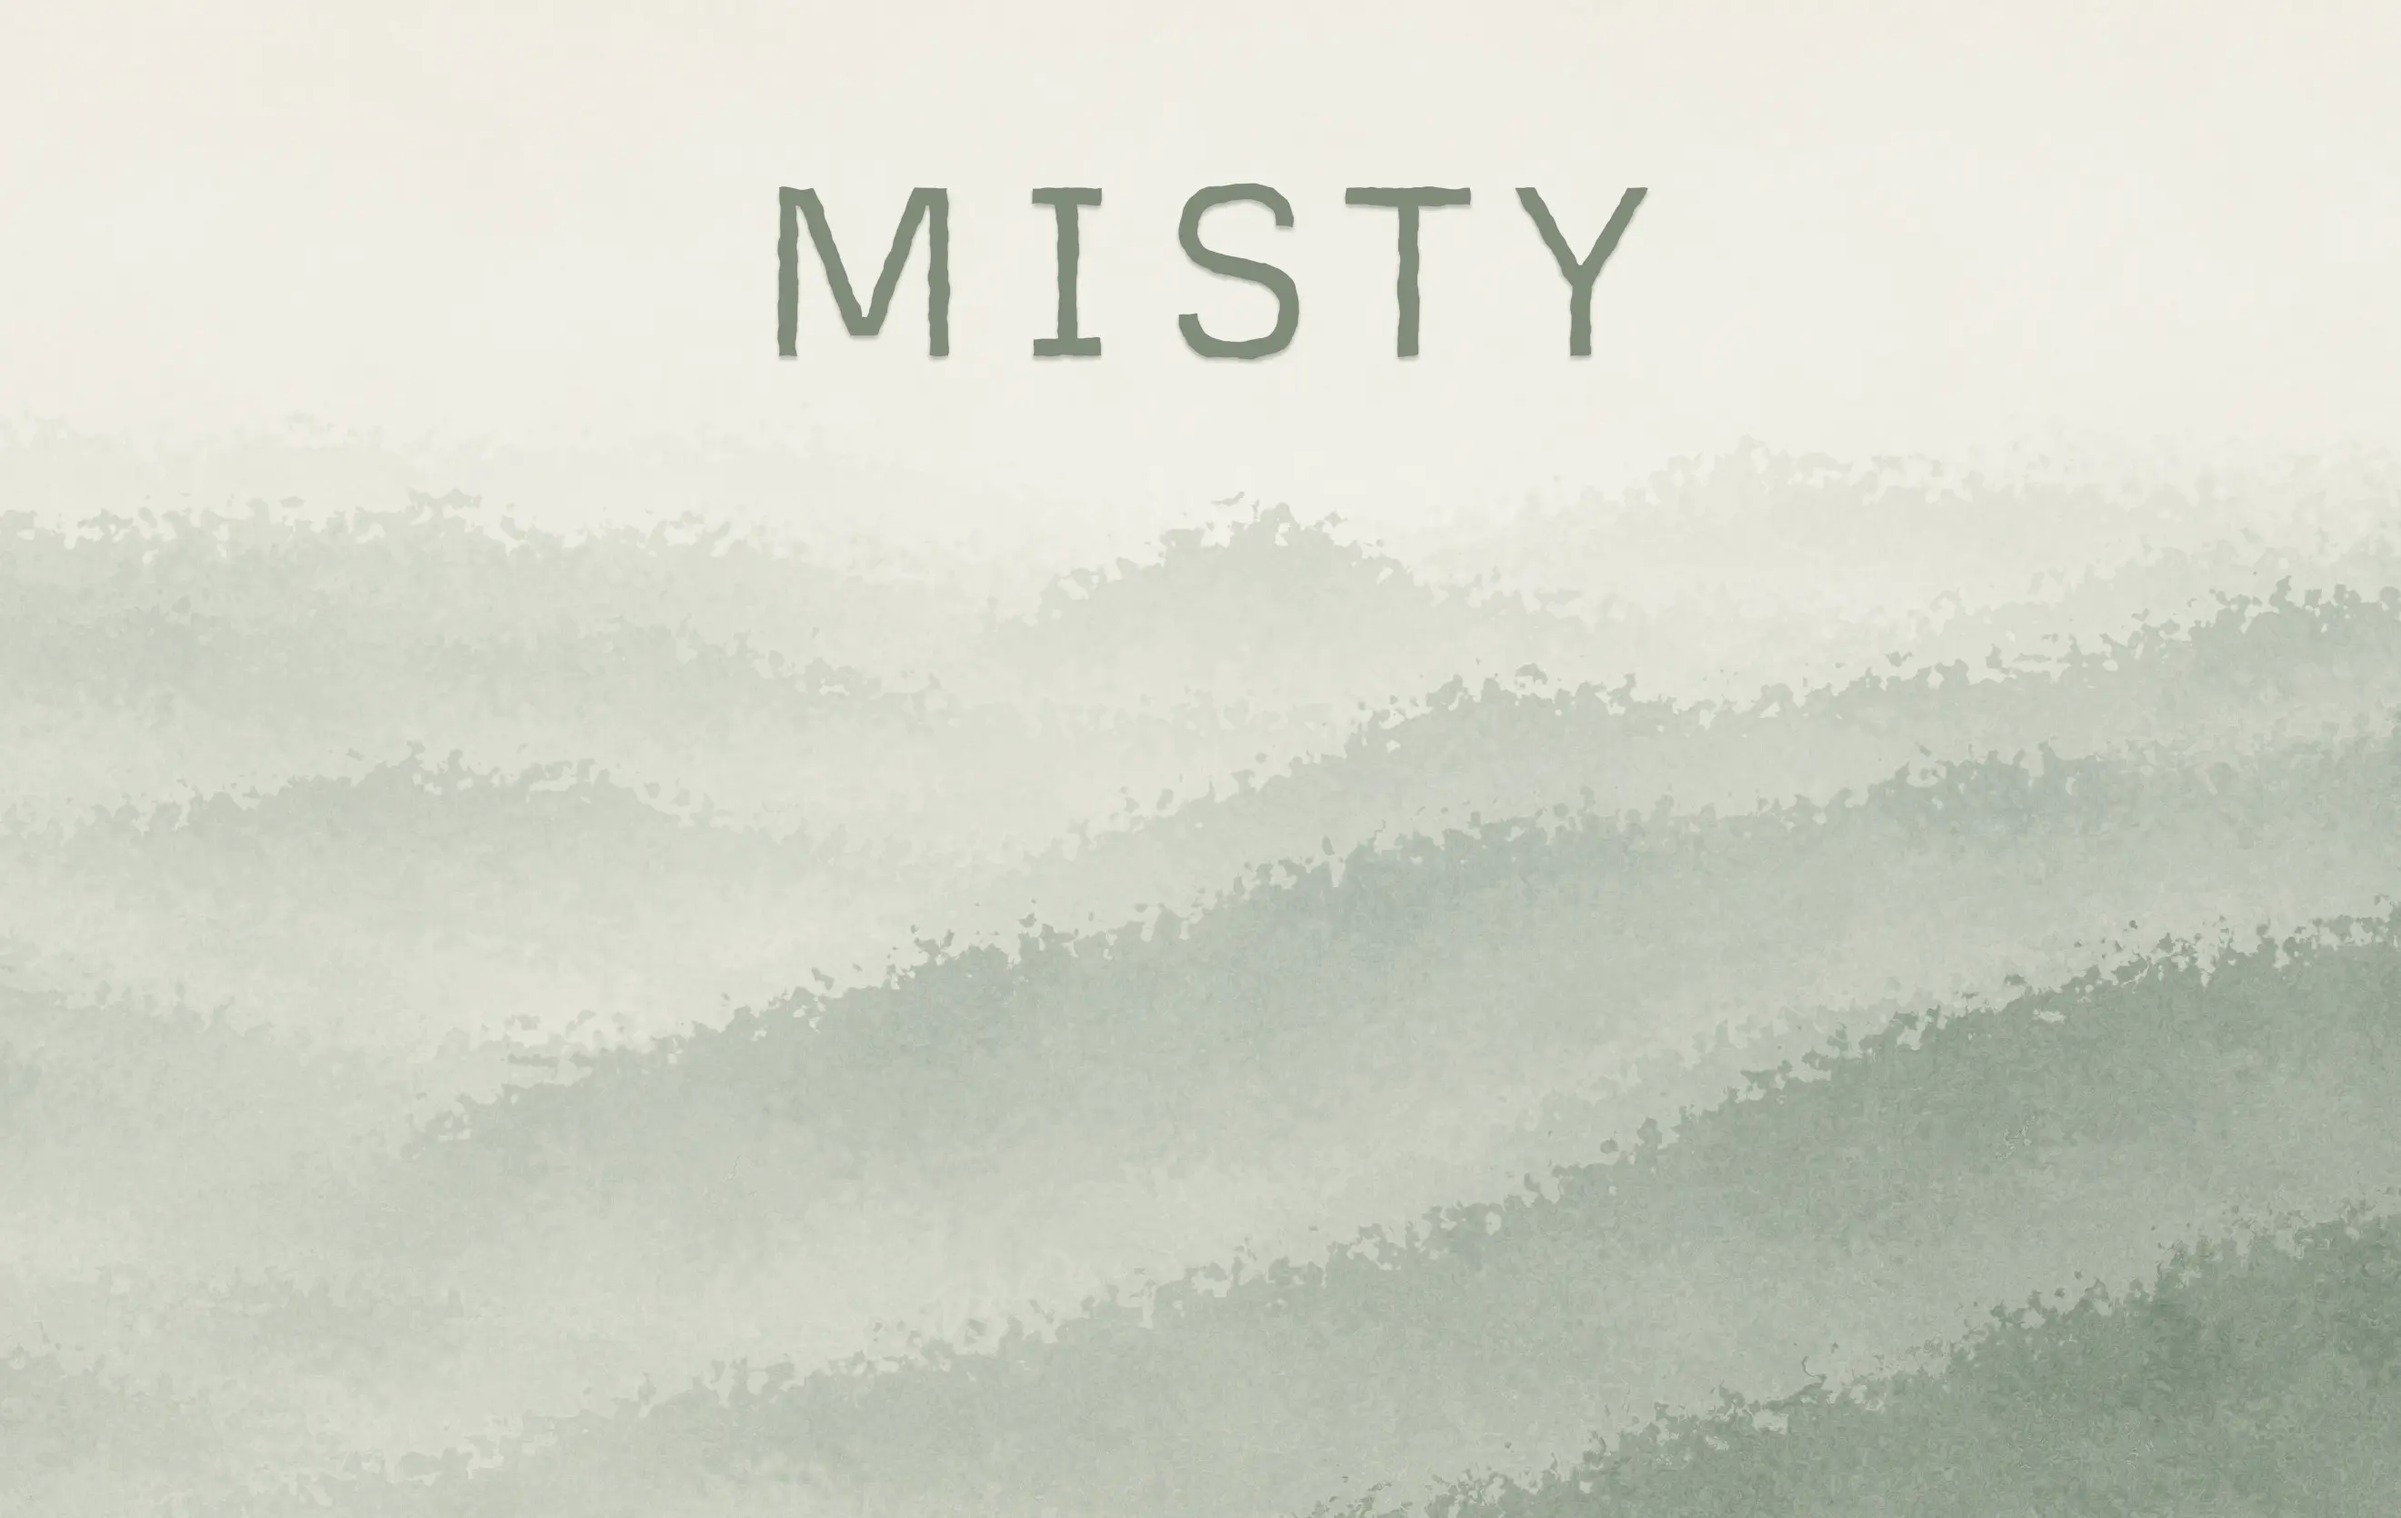
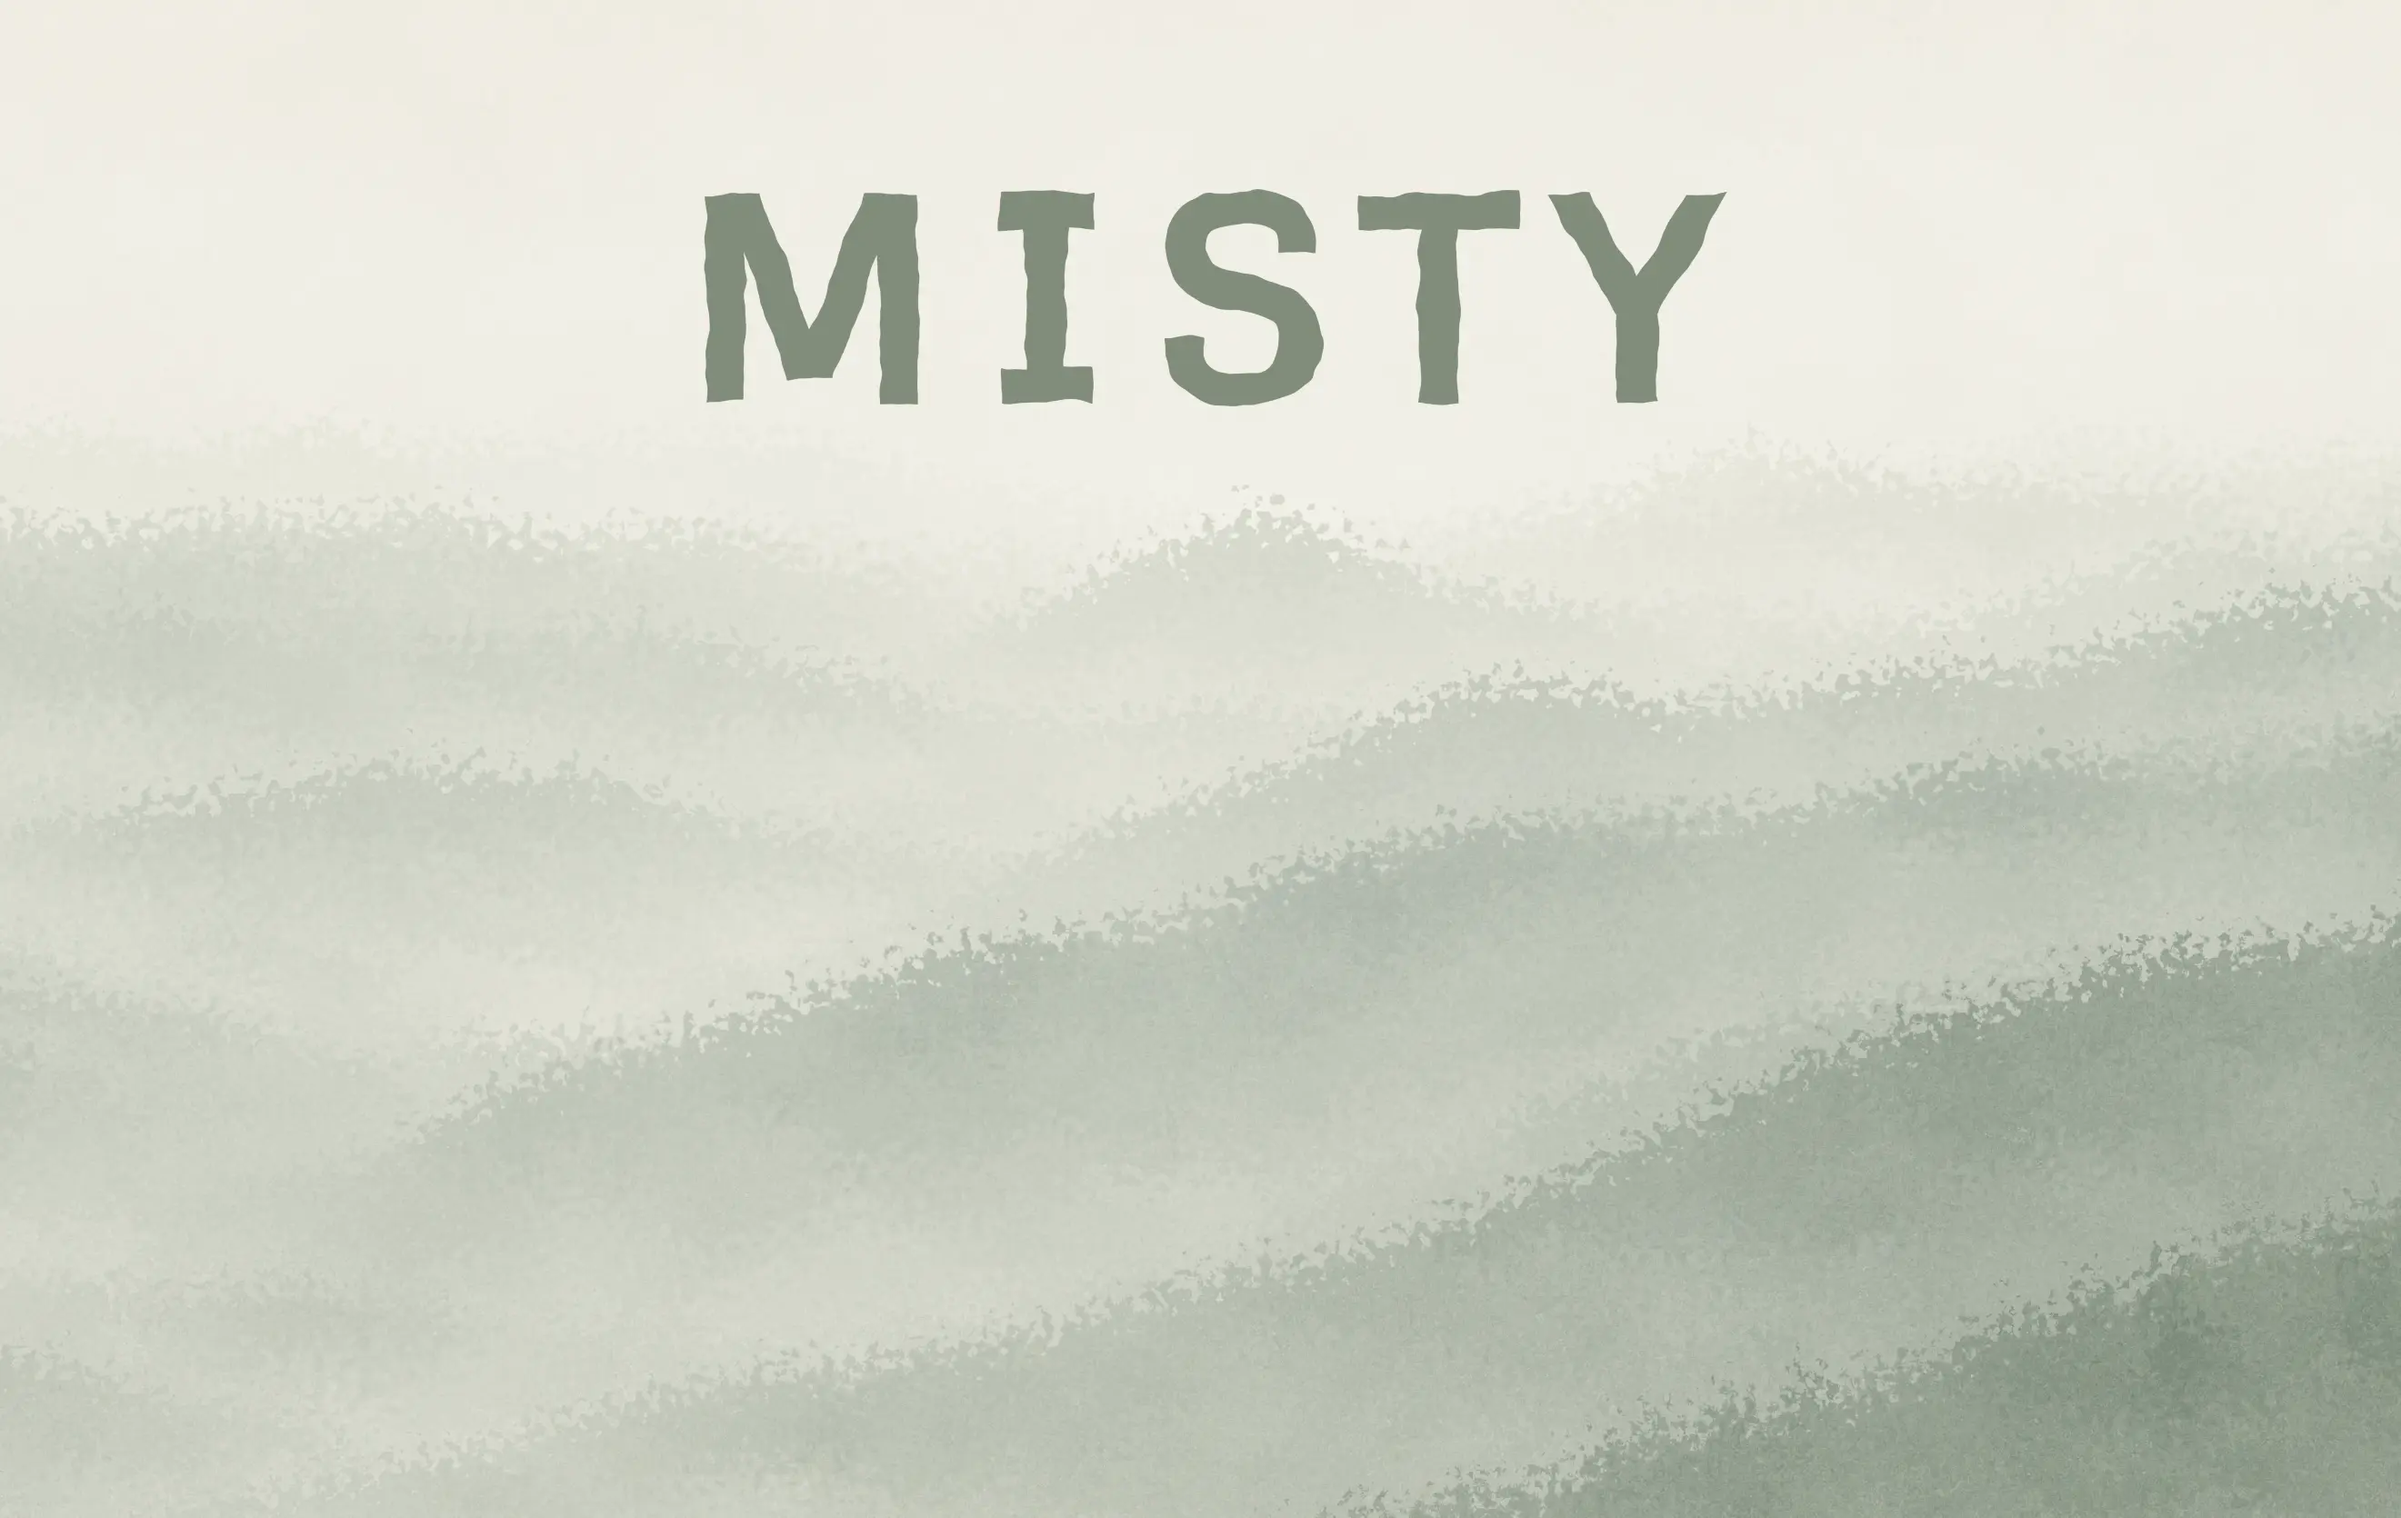
merge

diff --git a/components/LobbyScreen.tsx b/components/LobbyScreen.tsx
@@ -284,17 +284,17 @@ export default function LobbyScreen() {
   );
   const displayedProgress = isPlaybackActive
     ? {
-        currentLevel: displayedLeftLevel,
-        nextLevel: displayedRightLevel,
-        progressPercent: displayedPercent,
-        xpGainedTowardCurrentLevel: activePlaybackSegment.startXp,
-        xpRequiredForCurrentLevel: activePlaybackSegment.xpRequiredForLevel,
-        xpRemainingToNextLevel: Math.max(
-          0,
-          activePlaybackSegment.xpRequiredForLevel -
-            activePlaybackSegment.startXp,
-        ),
-      }
+      currentLevel: displayedLeftLevel,
+      nextLevel: displayedRightLevel,
+      progressPercent: displayedPercent,
+      xpGainedTowardCurrentLevel: activePlaybackSegment.startXp,
+      xpRequiredForCurrentLevel: activePlaybackSegment.xpRequiredForLevel,
+      xpRemainingToNextLevel: Math.max(
+        0,
+        activePlaybackSegment.xpRequiredForLevel -
+        activePlaybackSegment.startXp,
+      ),
+    }
     : finalProgress;
   const showRewardPreview = isNextLevelMultipleOfFive(finalProgress.nextLevel);
   const totalLifetimeXp = useMemo(
@@ -539,21 +539,21 @@ export default function LobbyScreen() {
 
       const classiqueConfig: PreGameConfig = isQuickplay
         ? {
-            gameType: "spike",
-            spikeMode: true,
-            spikeItemCount: "high",
-            spikeRowClear: true,
-            spikeEndGameBonuses: true,
-            targetScore,
-          }
+          gameType: "spike",
+          spikeMode: true,
+          spikeItemCount: "high",
+          spikeRowClear: true,
+          spikeEndGameBonuses: true,
+          targetScore,
+        }
         : {
-            gameType: "classic",
-            spikeMode: false,
-            spikeItemCount: "none",
-            spikeRowClear: false,
-            spikeEndGameBonuses: false,
-            targetScore,
-          };
+          gameType: "classic",
+          spikeMode: false,
+          spikeItemCount: "none",
+          spikeRowClear: false,
+          spikeEndGameBonuses: false,
+          targetScore,
+        };
 
       if (isQuickplay) {
         setIsCreatingQuickplayParty(true);
@@ -602,13 +602,13 @@ export default function LobbyScreen() {
         playerDisplayName: resolvedName,
         preGameConfig: isQuickplay
           ? {
-              gameType: "spike",
-              spikeMode: true,
-              spikeItemCount: "high",
-              spikeRowClear: true,
-              spikeEndGameBonuses: true,
-              targetScore,
-            }
+            gameType: "spike",
+            spikeMode: true,
+            spikeItemCount: "high",
+            spikeRowClear: true,
+            spikeEndGameBonuses: true,
+            targetScore,
+          }
           : {
               gameType: "classic",
               spikeMode: false,
@@ -705,7 +705,7 @@ export default function LobbyScreen() {
               {isProfileLoading ? (
                 <p className="notice">Loading account settings…</p>
               ) : null}
-              
+
               {profileError ? (
                 <p className="notice">Profile error: {profileError}</p>
               ) : null}
@@ -1118,8 +1118,7 @@ export default function LobbyScreen() {
                   isPartyGuest
                 }
               >
-                {isCreatingClassiqueParty ? "Starting Classique game..." : "Classique"}
-              </button>
+ <img src="/text/Classique.svg" alt="Classique" className="home-menu-words" />              </button>
               <button
                 type="button"
                 className="home-menu-button_main-row home-menu-buttons lobby-bento-grid__quickplay"
@@ -1131,21 +1130,22 @@ export default function LobbyScreen() {
                   isPartyGuest
                 }
               >
-                {isCreatingQuickplayParty ? "Starting Quickplay game..." : "Quickplay"}
+                 <img src="/text/Quickplay.svg" alt="Quickplay" className="home-menu-words" />
               </button>
               <button
                 type="button"
                 className="home-menu-buttons experimental-button lobby-bento-grid__experimental"
                 disabled
               >
-                Experimental
+                <img src="/text/Experimental.svg" alt="Experimental" className="home-menu-words" />
               </button>
               <button
                 type="button"
                 className="home-menu-buttons shop-button lobby-bento-grid__shop"
                 disabled
               >
-                Shop
+                <img src="/text/Shop.svg" alt="Shop" className="home-menu-words" />
+
               </button>
             </div>
           ) : null}

diff --git a/app/globals.css b/app/globals.css
@@ -27,6 +27,7 @@
   font-family: "Metrophobic", "sans-serif";
   --color-bg: #f5eee9;
   --newcolor-bg: #BEC5B4;
+  --on-newbg: #FFF9E2;
   --color-surface: #f1e8e1;
   --color-surface-alt: #ddd5c8;
   --color-surface-bright: #faf9f6;
@@ -2548,15 +2549,29 @@ small {
   aspect-ratio: 1/1;
 }
 
+.home-menu-words {
+  height: clamp(30px, 4vw, 55px);
+}
 .home-menu-buttons {
   display: flex;
   justify-content: center;
   align-items: center;
     font-family: "Metrophobic", serif;
+  background-color: #D9D9D9;
   letter-spacing: 1.3px;
   font-size: clamp(18px, 6vw, 40px);
   font-weight: 700;
-  color: var(--color-dark);
+  color: var(--on-newbg);
+  filter: none;
+  box-shadow: none;
+  transition: all 0.3s ease-in-out;
+}
+.home-menu-buttons:hover {
+    background-color: #D9D9D9;
+
+  filter: drop-shadow(0 4px 8px rgba(0, 0, 0, 0.2));
+    box-shadow: inset 0 0 20px rgba(255, 255, 255, 0.686);
+  scale: 1.02;
 
 }
 
